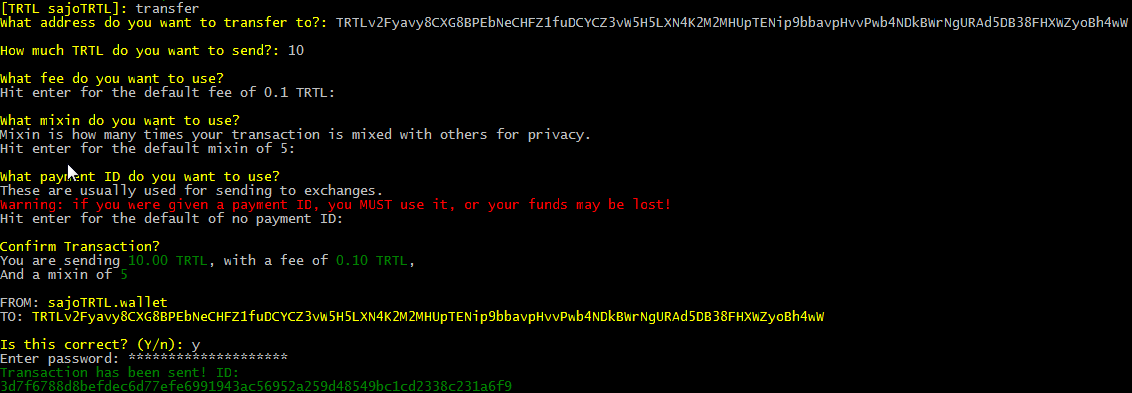
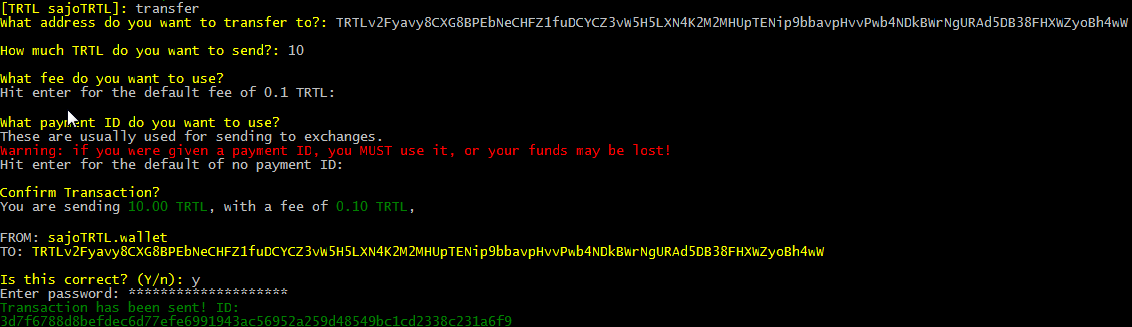
Update Mixin References
TRTL Network uses a network defined mixin as of block 600,000.
As such no need to document specifiying mixin for transactions.

Changed region(s): [[0.0, 0.0, 1.0, 1.0], [0.4329, 0.4281, 0.5875, 0.5505]]

diff --git a/api/wallet-rpc-api.md b/api/wallet-rpc-api.md
@@ -1177,7 +1177,7 @@ addresses       | No            | Array of strings, where each string is an addr
 transfers       | Yes           | Array of objects, address: (string address), amount: (int amount)                        | array
 fee             | Yes           | Transaction fee. Minimal fee in TurtleCoin network is 0.10 TRTL. As with other amounts use whole units, 1 TRTL = 100 units, so 0.1 TRTL = 10 units | int
 unlockTime      | No            | The block height at which the transaction will be unlocked for spending.                 | int
-anonymity       | Yes           | Privacy (mixin) level (a discrete number from 0 to > than 0). 6 and higher is recommended| int
+anonymity       | Yes           | Privacy (mixin) level from block 600,000 needs to be seven (7), this will be removed / ignored in a future version | int
 extra           | No            | String of variable length. Can contain A-Z, 0-9 characters.                              | string
 paymentId       | No            | Payment ID                                                                               | string 
 changeAddress   | No            | Valid and existing address in this container.                                            | string 

diff --git a/Frequently-Asked-Questions.md b/Frequently-Asked-Questions.md
@@ -241,7 +241,9 @@ A: You need to also open up `TurtleCoind.exe` and let it sync. TurtleCoind is yo
 
 #### Q: What is mixin?
 
-  A: Mixin is how many times your transaction is "mixed" with others for obfuscation and privacy. Most people suggest a mixin of 3. Larger mixins will take longer to be confirmed unless a higher fee is used. A mixin of 0 can be used to have a public transaction(though it is strongly recommended not to do so).
+  A: Mixin is how many times your transaction is "mixed" with others for obfuscation and privacy. This used to be dynamic in that the user could choose a number equal to or greater than zero. However this property is now set and enforced at the network layer. The TRTL Network is a privacy focused blockchain, and keen to ease adoption for everyone, like how two decimals are used. Removing this user configurable option and setting it at the network layer allows for the network to balance this privacy aspect automatically so people can focus on the important parts.
+
+   As of block 600,000 the network mixin is set to seven (7) with increases planned for the future
 
 #### Q: How can I view my balance?
 

diff --git a/guides/wallets/Using-Zedwallet.md b/guides/wallets/Using-Zedwallet.md
@@ -225,8 +225,6 @@ In the running _zedwallet_ client, after opening a wallet..
 
 - press enter to use the default fee of 0.1 TRTL (or set it higher if you're sending a large amount of TRTL)
 
-- press enter to use the default mixin of 5 (or set it higher if you want a more private transaction)
-
 - enter the payment ID if you have one (usually not needed). Check the [payment ID section](#tx-trtl-p-id) if you're not sure when/how to use it.
 
 - confirm that the details are correct and enter `y`. If something is amiss, enter `n` and follow the steps again. 
@@ -239,9 +237,6 @@ Example:
 
 ![transfer](guides/wallets/images/transfer-simple.png)
 
-Mixin is how many times a transaction is "mixed" with others for obfuscation and privacy. 
-
-Most people suggest a mixin of `5` or more. Larger mixin's will take longer to be confirmed unless a higher fee is used. A mixin of `0` can be used to have a non-private transaction(it is strongly advised not to do so though).
 
 #### Optimizing your Wallet
 

diff --git a/guides/wallets/Using-nest-wallet.md b/guides/wallets/Using-nest-wallet.md
@@ -147,13 +147,13 @@ To include a Payment ID, simply enter it under `(optional) Payment ID`.
 
 ![send](guides/wallets/images/nest-tx.png)
 
-#### Changing Mixin and Fee
+#### Changing Fee
 
-Currently, it is not possible to change the mixin (set to 4) or fee (set to 1 TRTL). This may be possible in the future. 
+Currently, it is not possible to change the fee (set to 1 TRTL). This may be possible in the future. 
 
 For now remember, that 1 TRTL ontop of what you're sending will be deducted. So don't send your full balance!
 
- ### Saving the Wallet
+### Saving the Wallet
 
 To safely close the wallet, simply close it as you normally would; by clicking the `X` at the top right/left, depending on your OS.
 

diff --git a/guides/wallets/Using-winforms-wallet.md b/guides/wallets/Using-winforms-wallet.md
@@ -116,7 +116,6 @@ Upon opening your wallet, your balance is located in the top right.
 
         To include a Payment ID, simply enter it next to ` Payment ID`. *Note: It is optional, if it doesn't              give a payment ID it is most likely not required*
 
-* Next is the `Mixin`, which is how many times your transaction will be mixed with others for obfuscation and privacy. The suggested amount is `3`.
 * For the `Fee`, it is alright to leave it at `.1%`. If you send more than 1,000,000 TRTL at a time, it is best to set a fee of `1%`.
 
 Once done, click `Send`.

diff --git a/guides/Using-trtlbot-plus-plus.md b/guides/Using-trtlbot-plus-plus.md
@@ -19,7 +19,6 @@ After your wallet address has been registered, type `.deposit` in the #bots chan
 
 * Copy the first line of code he gives and enter it as the address
 * Then copy the second line of code he gives and enter it as the address
-* After that, enter the amount of mixin and amount you want to use/send and send the transaction!
 
 #### CLI Wallet
 
